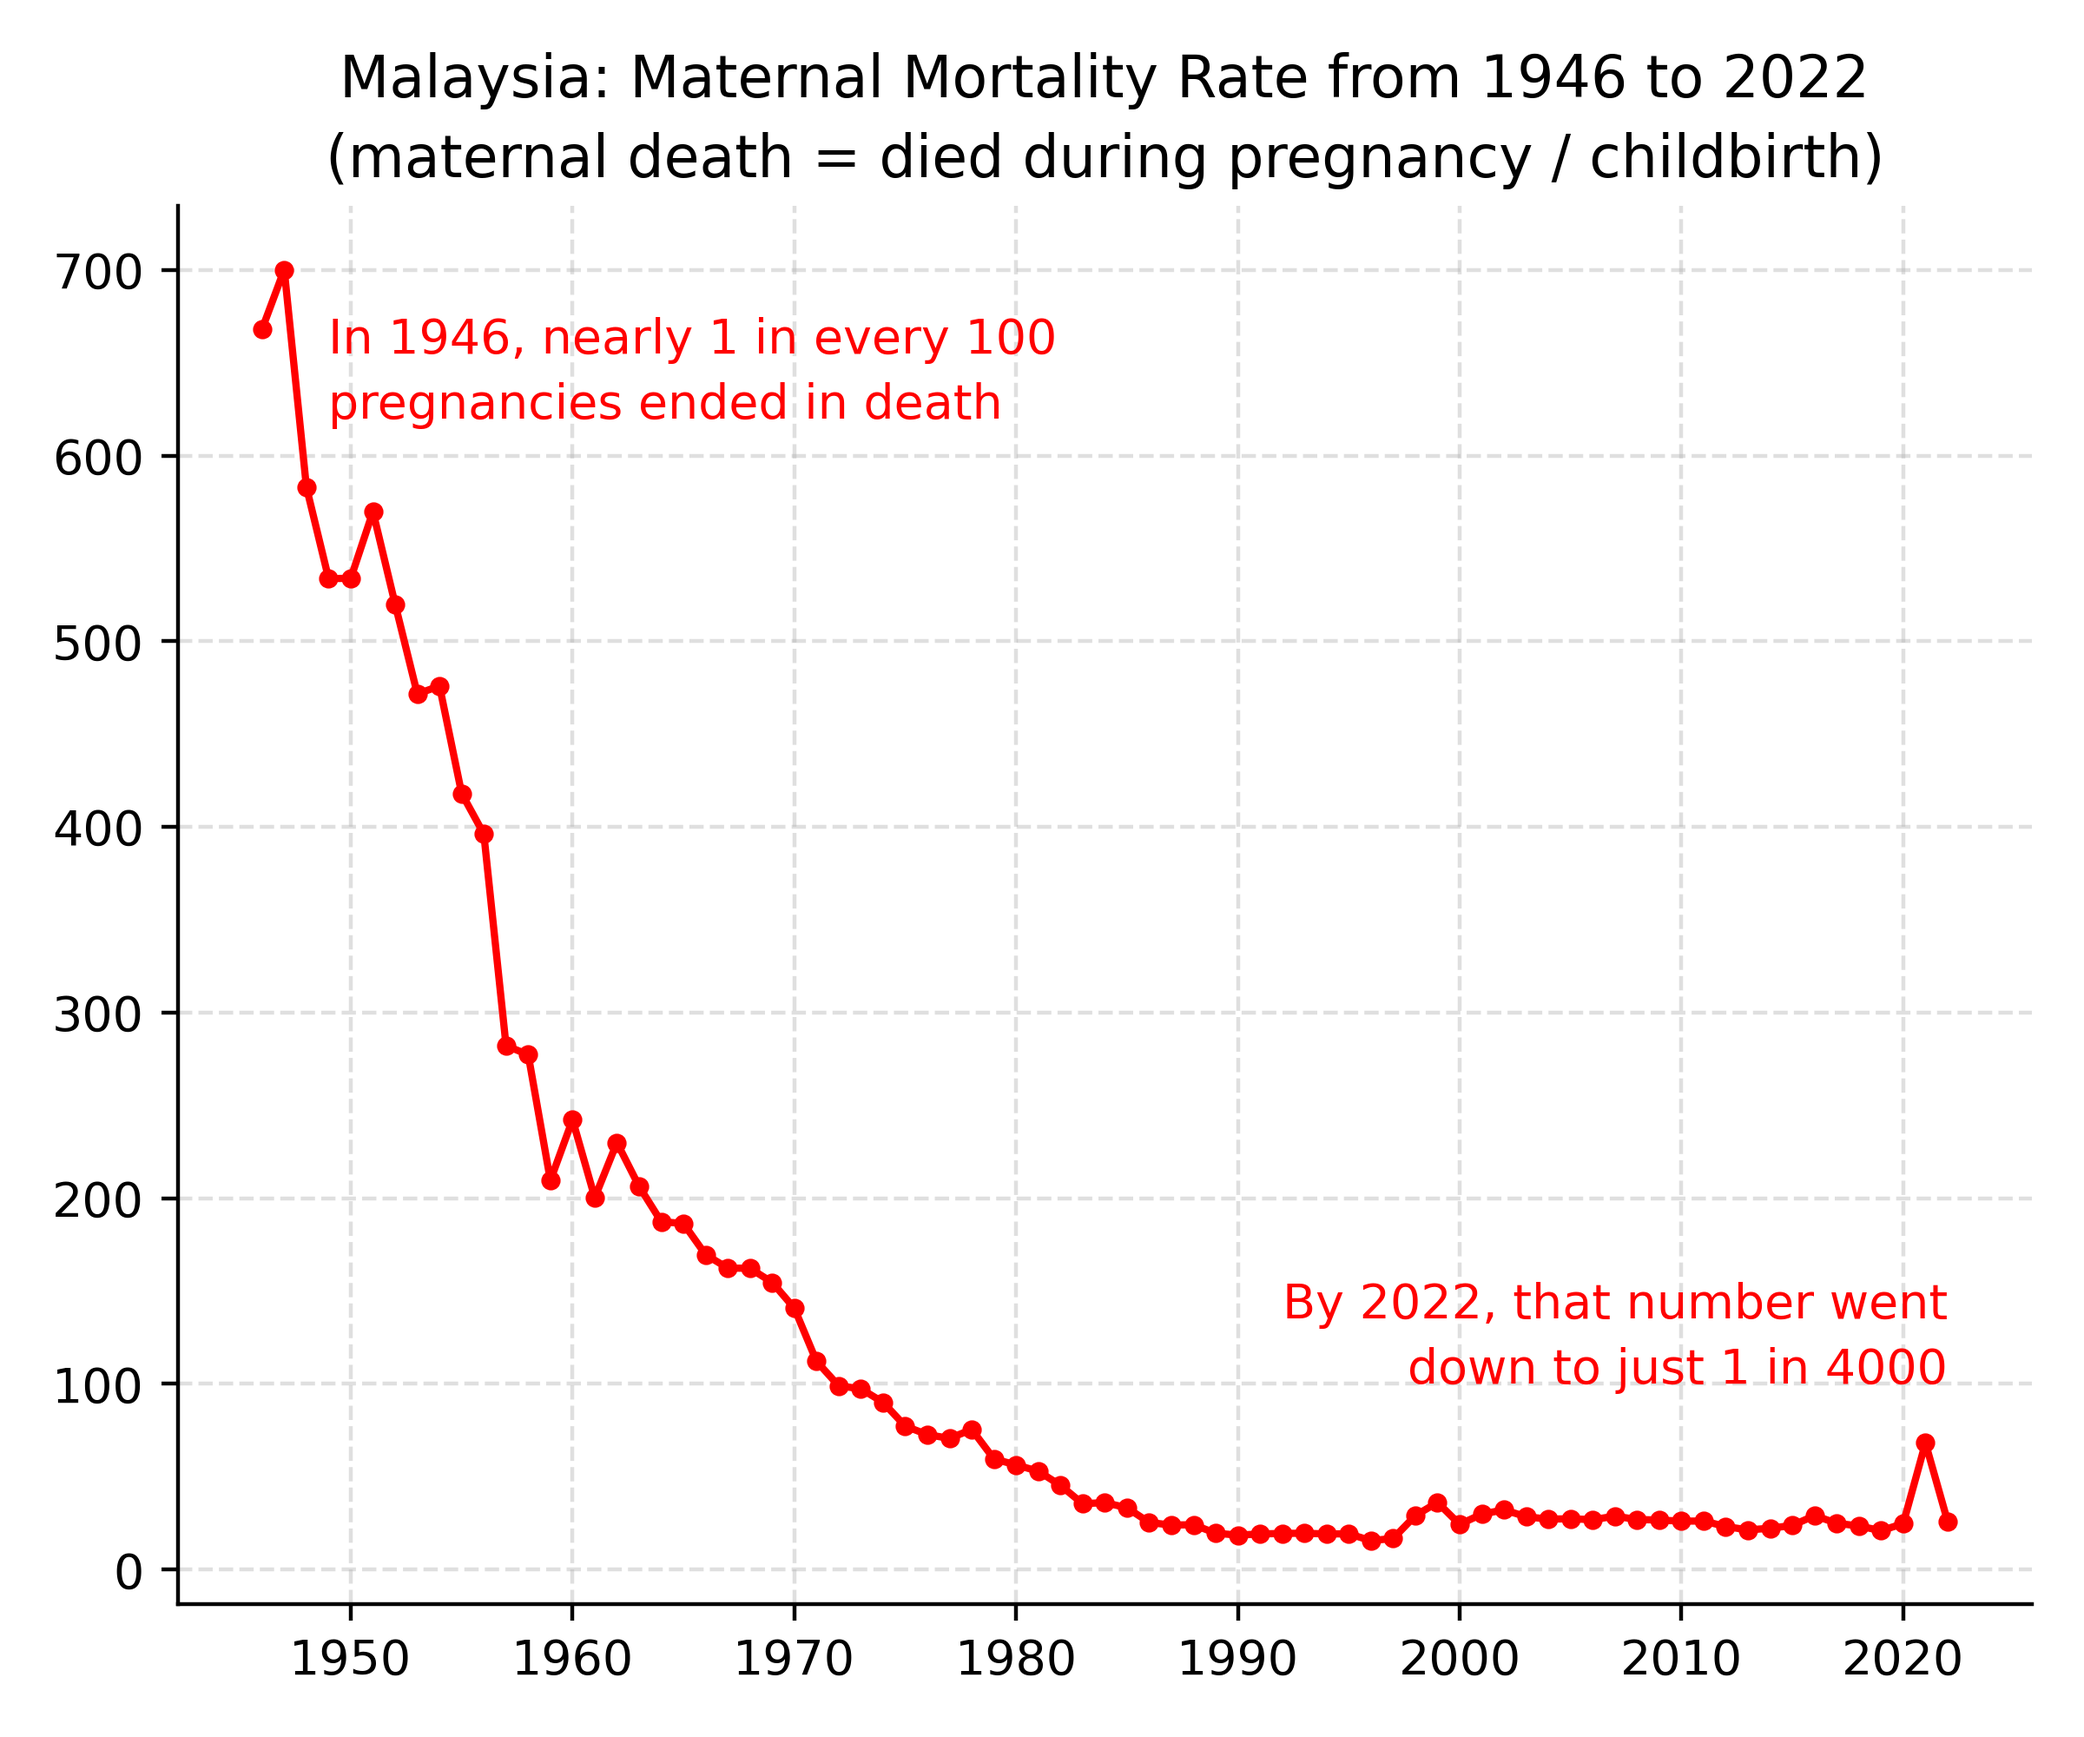
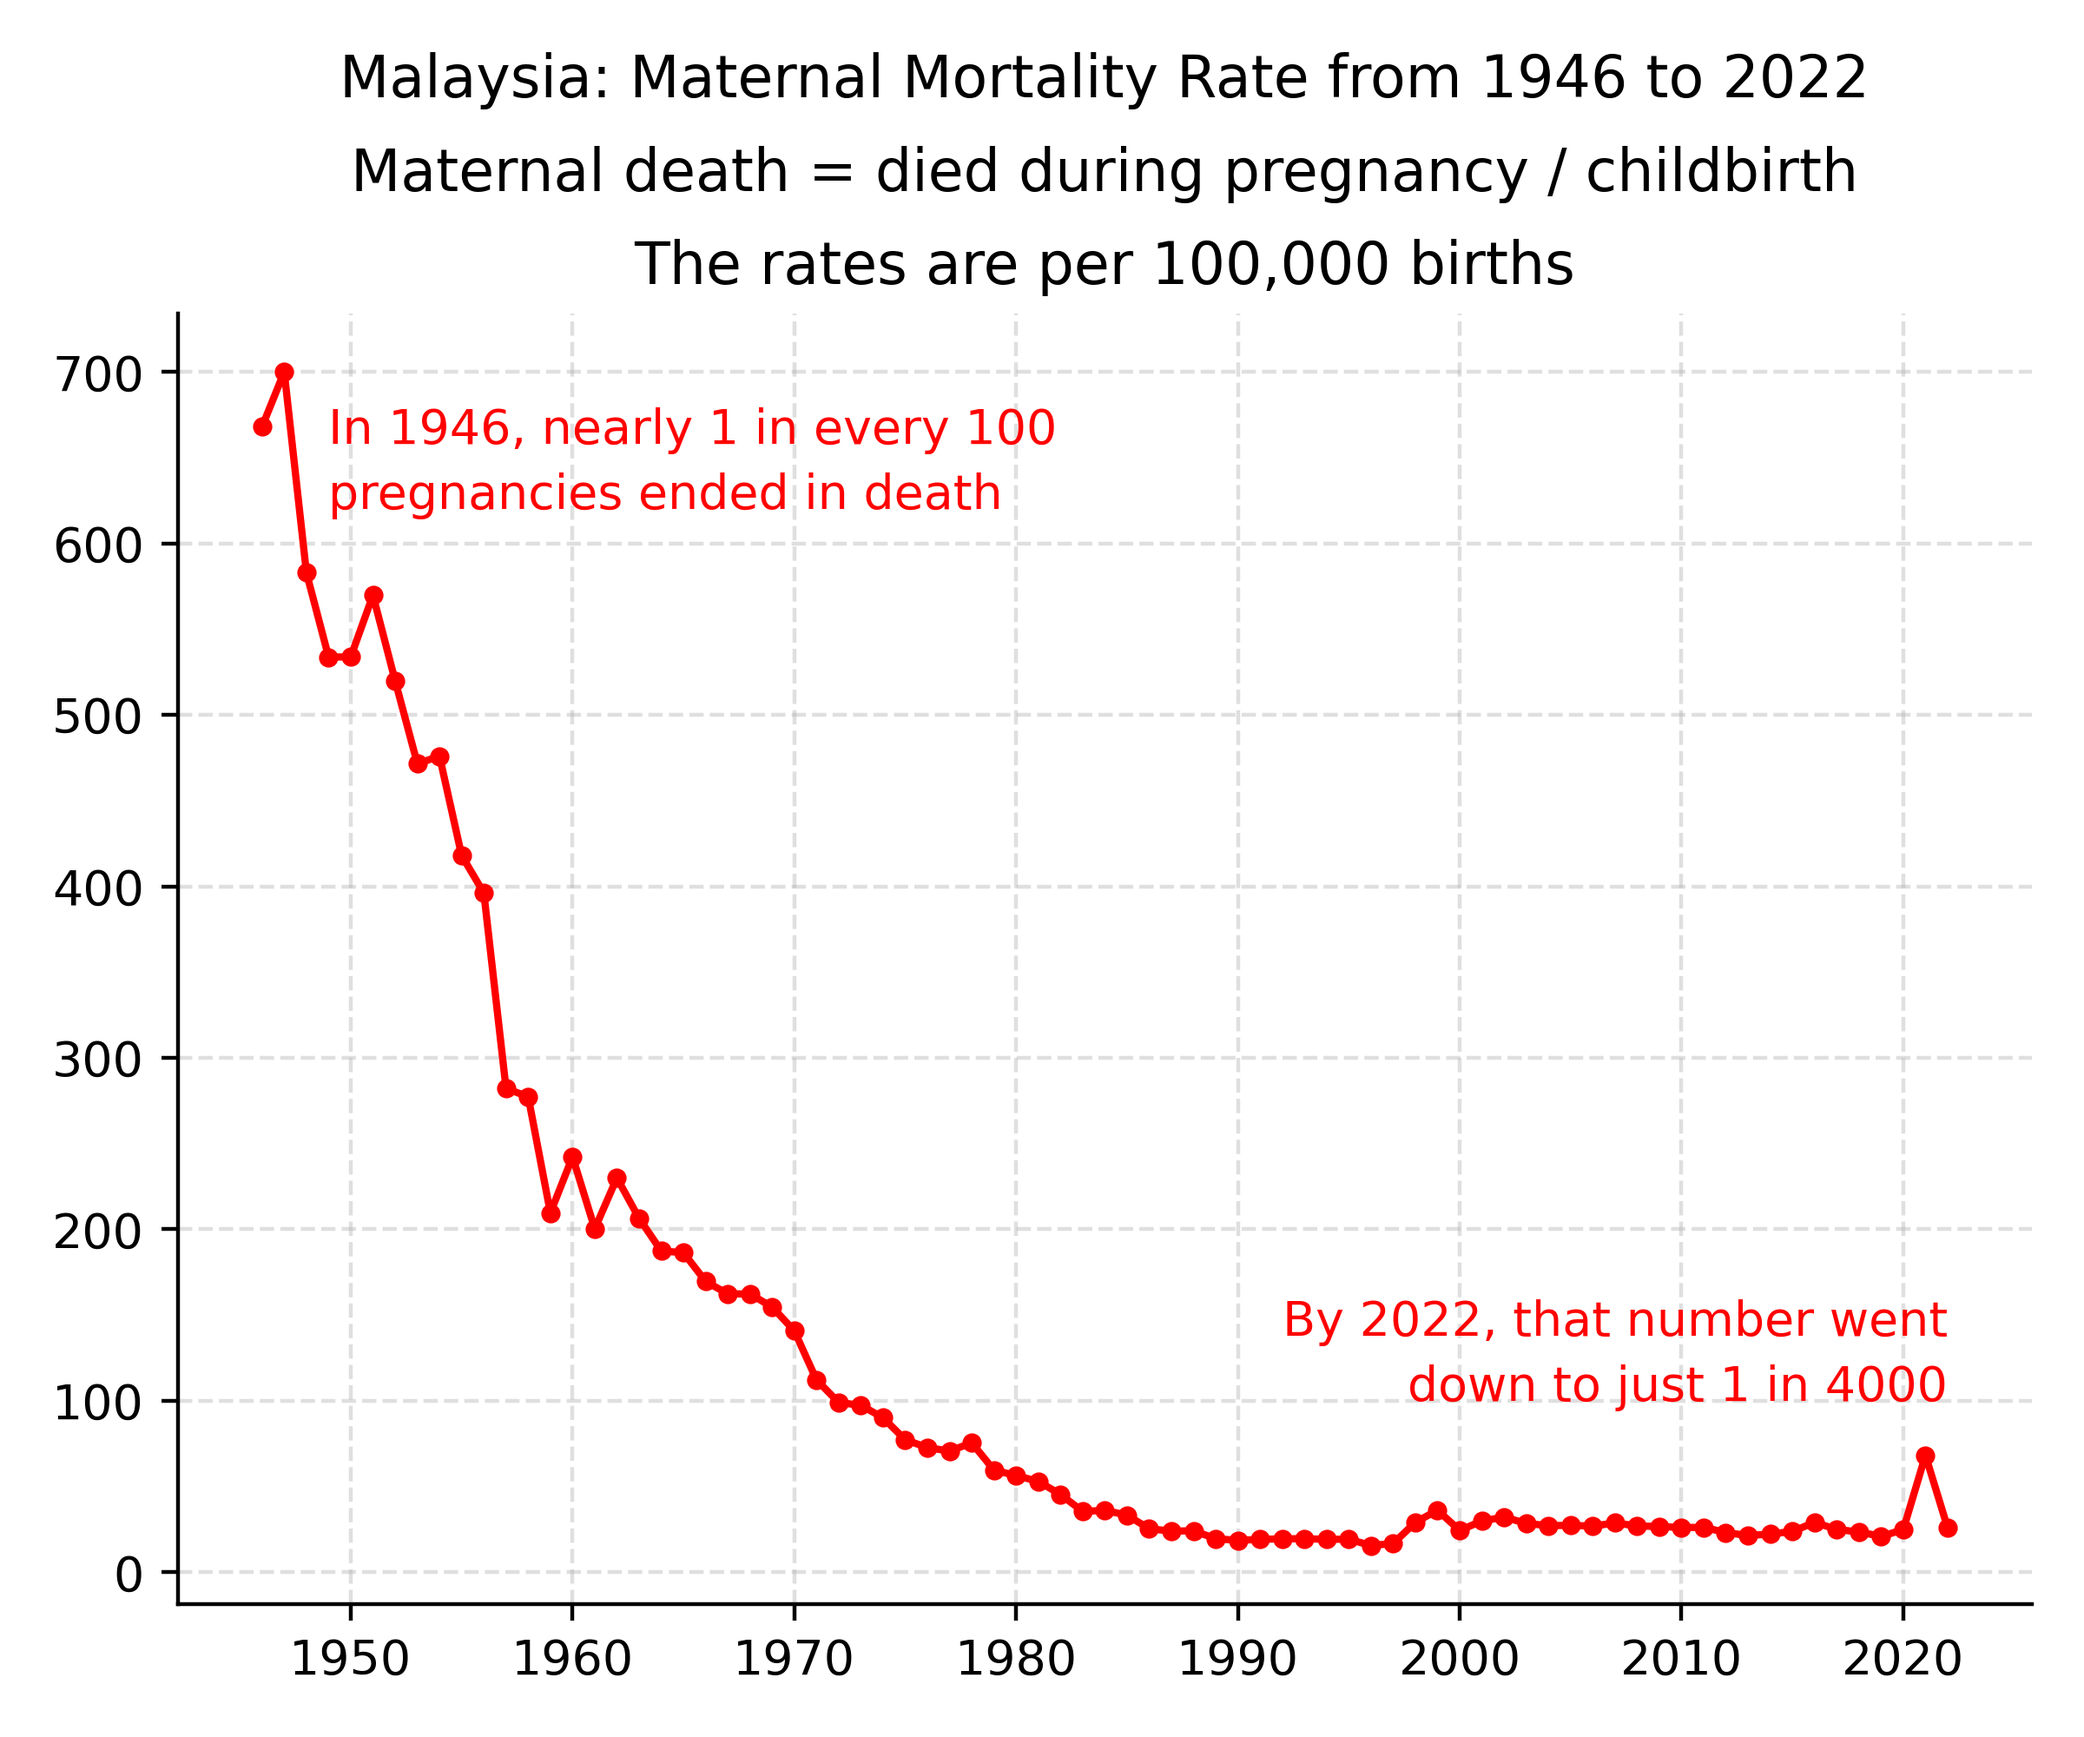
Maternal mortality

diff --git a/2024-03-03_mmr/script.py b/2024-03-03_mmr/script.py
@@ -21,7 +21,9 @@ def timeseries():
     df.plot(y='rate',ax=ax,marker='.',color='red')
 
     # plot-wide adjustments
-    ax.set_title(f"""Malaysia: Maternal Mortality Rate from 1946 to 2022\n(maternal death = died during pregnancy / childbirth)""",linespacing=1.5)
+    ax.set_title(f"""Malaysia: Maternal Mortality Rate from 1946 to 2022
+Maternal death = died during pregnancy / childbirth
+The rates are per 100,000 births""",linespacing=1.8)
     for b in ['top','right']: ax.spines[b].set_visible(False)
     ax.set_axisbelow(True)
     ax.get_legend().remove()
